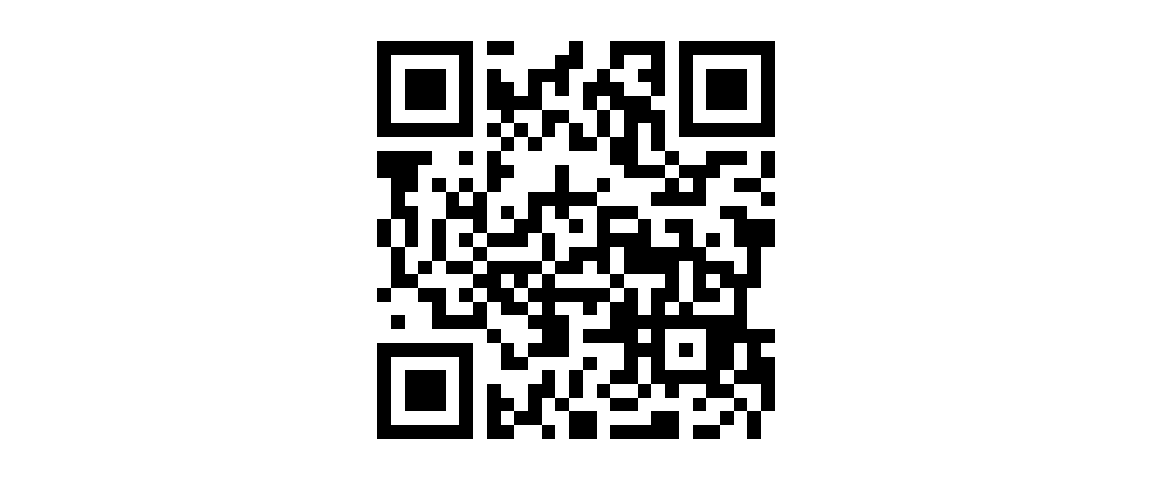
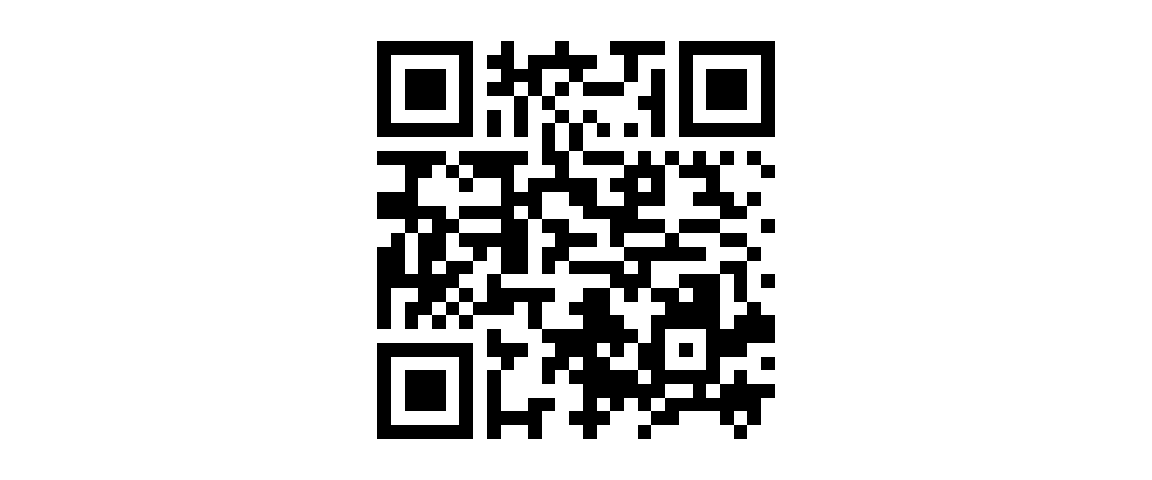
correct urls

Changed region(s): [[0.3125, 0.0625, 0.6875, 0.9375]]

diff --git a/presentation.html b/presentation.html
@@ -468,14 +468,14 @@ document.getElementsByTagName('head')[0].appendChild(style);
 <h2>Before starting</h2>
 <p>This lecture is optimized for <strong>Google Chrome</strong> and it can be found at</p>
 <center>
-<a href="https://jundurraga.github.io/INST_2020/#/" class="uri">https://jundurraga.github.io/INST_2020/#/</a>
+<a href="https://jundurraga.github.io/DTU2022/#/" class="uri">https://jundurraga.github.io/DTU2022/#/</a>
 </center>
 <center>
 <img src="presentation_files/figure-revealjs/qr_code-1.png" width="576" />
 </center>
 <p>A printable version of this presentation can be obtained at</p>
 <center>
-<a href="https://jundurraga.github.io/INST_2020/?print-pdf#/" class="uri">https://jundurraga.github.io/INST_2020/?print-pdf#/</a>
+<a href="https://jundurraga.github.io/DTU2022/?print-pdf#/" class="uri">https://jundurraga.github.io/DTU2022/?print-pdf#/</a>
 </center>
 </section>
 <section>
